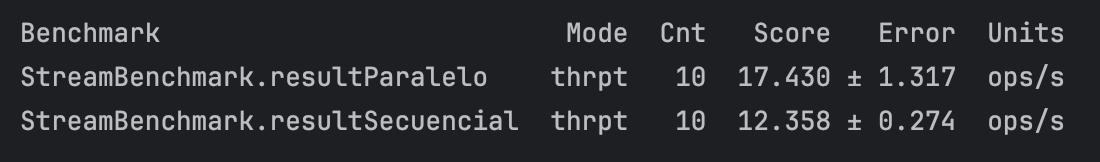
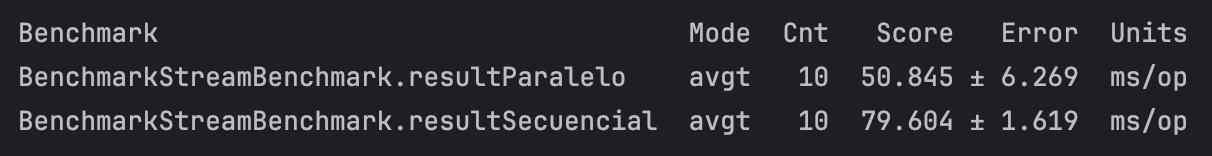
avances

diff --git a/Ejemplo/src/main/java/org/example/BenchmarkStreamBenchmark.java b/Ejemplo/src/main/java/org/example/BenchmarkStreamBenchmark.java
@@ -1,0 +1,55 @@
+package org.example;
+
+import org.openjdk.jmh.annotations.*;
+import org.openjdk.jmh.infra.Blackhole;
+import org.openjdk.jmh.runner.Runner;
+import org.openjdk.jmh.runner.RunnerException;
+import org.openjdk.jmh.runner.options.Options;
+import org.openjdk.jmh.runner.options.OptionsBuilder;
+
+import java.util.ArrayList;
+import java.util.List;
+import java.util.Random;
+import java.util.concurrent.TimeUnit;
+import java.util.stream.Collectors;
+
+@State(Scope.Benchmark)
+@BenchmarkMode(Mode.AverageTime)
+@OutputTimeUnit(TimeUnit.MILLISECONDS)
+public class BenchmarkStreamBenchmark {
+    public static void main(String[] args) throws RunnerException {
+        Options opt = new OptionsBuilder()
+                .include(BenchmarkStreamBenchmark.class.getSimpleName())
+                .warmupIterations(5)
+                .measurementIterations(10)
+                .forks(1)
+                .build();
+
+        new Runner(opt).run();
+    }
+
+    List<Integer> list = new ArrayList<>();
+
+    @Setup(Level.Trial)
+    public void setUp() {
+        int size = 10000000;
+        Random random = new Random();
+        for (int i = 0; i < size; i++) {
+            list.add(random.nextInt(50000) + 1);
+        }
+    }
+
+    @Benchmark
+    public void resultSecuencial(Blackhole bh) {
+        bh.consume(list.stream()
+                .filter(n -> n % 2 == 0)
+                .collect(Collectors.toList()));
+    }
+
+    @Benchmark
+    public void resultParalelo(Blackhole bh) {
+        bh.consume(list.parallelStream()
+                .filter(n -> n % 2 == 0)
+                .collect(Collectors.toList()));
+    }
+}

diff --git a/Ejemplo/src/main/java/org/example/StreamBenchmark.java b/Ejemplo/src/main/java/org/example/StreamBenchmark.java
@@ -12,41 +12,21 @@ import java.util.List;
 import java.util.Random;
 import java.util.stream.Collectors;
 
-@State(Scope.Benchmark)
 public class StreamBenchmark {
-    public static void main(String[] args) throws RunnerException {
-        Options opt = new OptionsBuilder()
-                .include(StreamBenchmark.class.getSimpleName())
-                .warmupIterations(5)
-                .measurementIterations(10)
-                .forks(1)
-                .build();
-
-        new Runner(opt).run();
-    }
-
-    List<Integer> list = new ArrayList<>();
-
-    @Setup(Level.Trial)
-    public void setUp() {
+    public static void main(String[] args) {
         int size = 10000000;
         Random random = new Random();
+        List<Integer> list = new ArrayList<>();
         for (int i = 0; i < size; i++) {
             list.add(random.nextInt(50000) + 1);
         }
-    }
 
-    @Benchmark
-    public void resultSecuencial(Blackhole bh) {
-        bh.consume(list.stream()
+        List<Integer> resultSecuencial = list.stream()
                 .filter(n -> n % 2 == 0)
-                .collect(Collectors.toList()));
-    }
+                .collect(Collectors.toList());
 
-    @Benchmark
-    public void resultParalelo(Blackhole bh) {
-        bh.consume(list.parallelStream()
+        List<Integer> resultParalelo = list.parallelStream()
                 .filter(n -> n % 2 == 0)
-                .collect(Collectors.toList()));
+                .collect(Collectors.toList());
     }
 }

diff --git a/README.md b/README.md
@@ -4,4 +4,7 @@
 # Benchmark
 ![Cobertura](img/benchmark.jpeg)
 
-test
+Se puede observar que el procesamiento paralelo tiene un tiempo promedio de 50,845 milisegundos, lo cual es más eficiente que el procesamiento secuencial con 79,604 milisegundos. Aunque el procesamiento paralelo presenta una tasa de error mayor, esto no afecta significativamente el resultado final.
+
+Se puede llegra a la conclusion de que en este caso, el procesamiento paralelo ofrece un mejor rendimiento, aunque con una variabilidad superior en comparación con el procesamiento secuencial.
+
